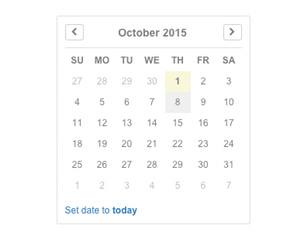
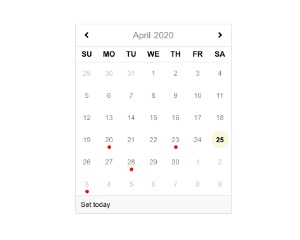
Fixed bugs and updated image.

diff --git a/j-DatePicker/component.js b/j-DatePicker/component.js
@@ -513,7 +513,7 @@ COMPONENT('datepicker', 'today:Set today;firstday:0', function(self, config, cls
 			for (var i = 0; i < date.length; i++) {
 				var dt = date[i].getFullYear() + '-' + date[i].getMonth() + '-' + date[i].getDate();
 				var el = self.find(cls2 + '-date[data-date="{0}"]'.format(dt));
-				if (el.find('i').length === -1)
+				if (el.length && !el.find('i').length)
 					el.append('<i class="fa fa-circle"></i>');
 			}
 

diff --git a/j-DatePicker/example.html b/j-DatePicker/example.html
@@ -10,7 +10,6 @@
 		opt.value = 'form.date';
 		opt.element = this;
 
-
 		// Append badges
 		opt.badges = function(date, append) {
 			setTimeout(function() {
